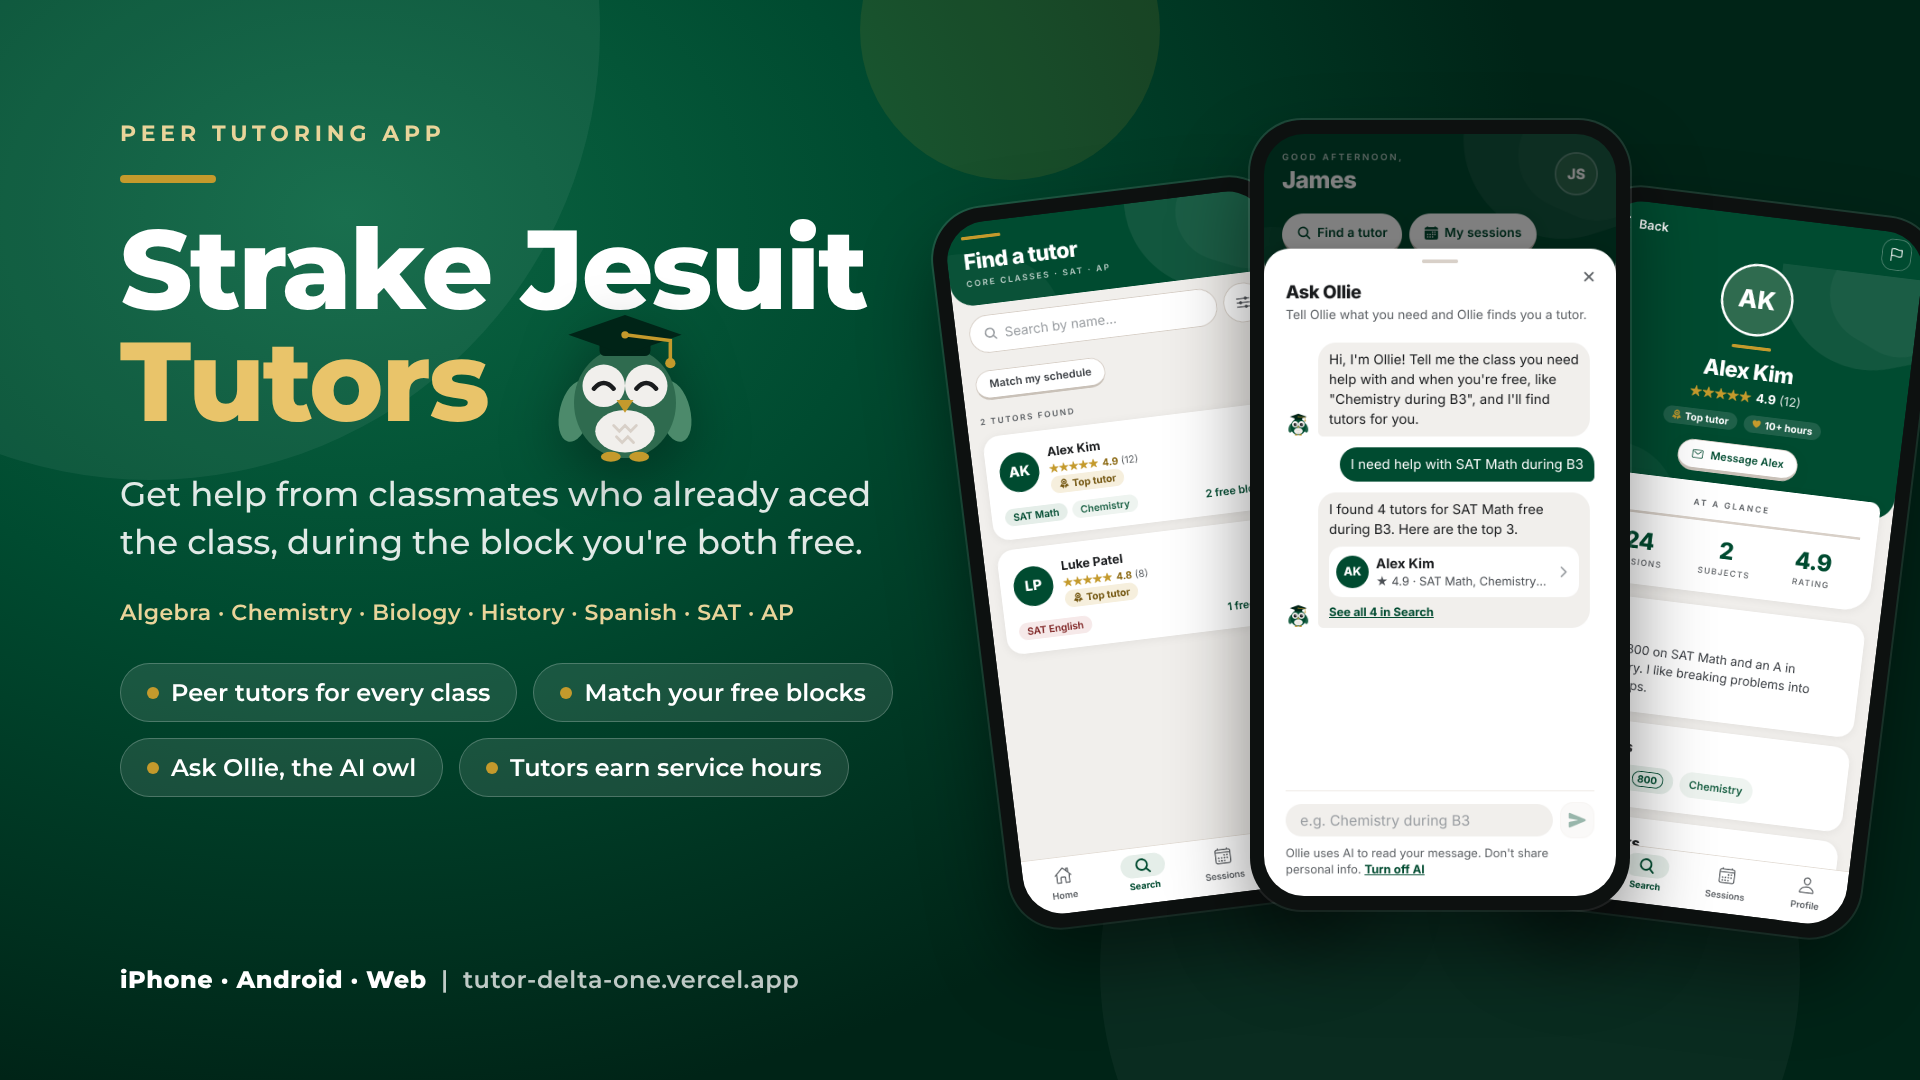
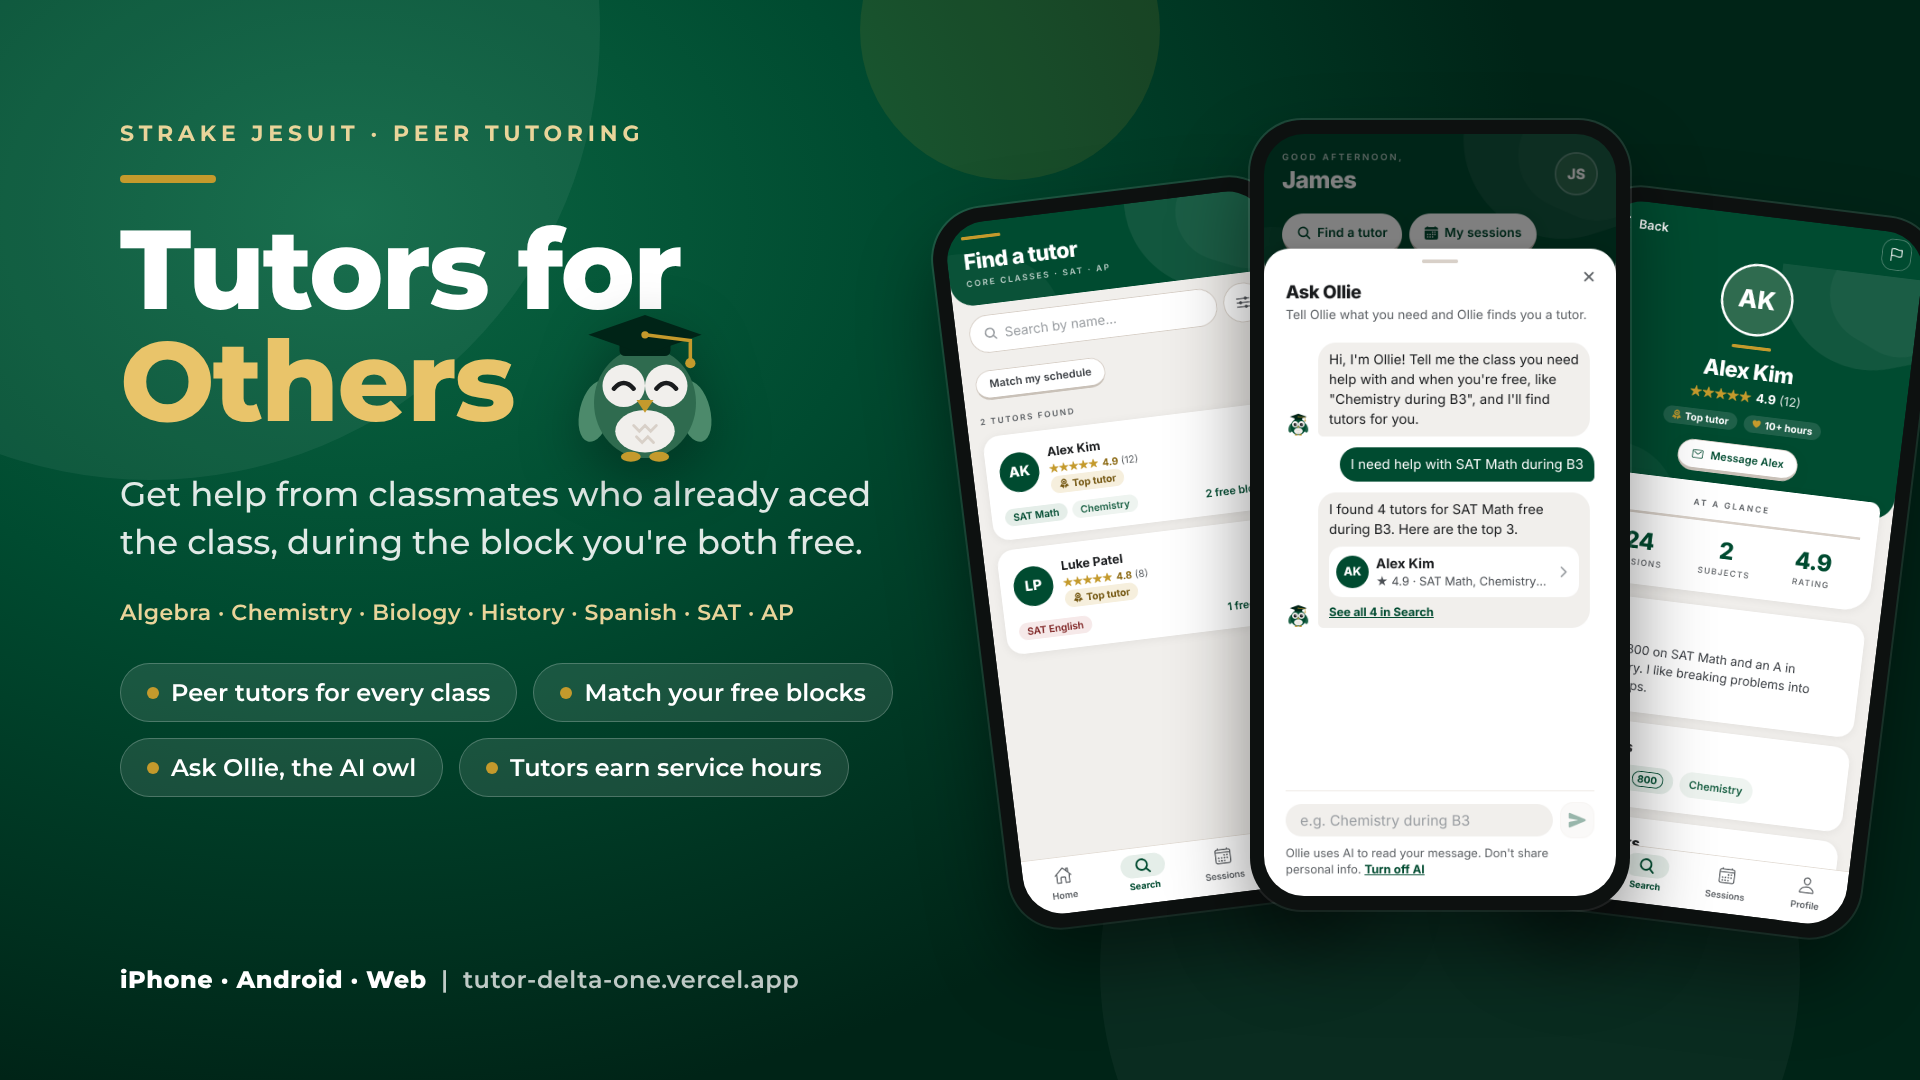
Rename the app to Tutors for Others
After the Jesuit motto "men and women for others". school.appName holds
the name; the header lockups now read TUTORS FOR OTHERS over Strake
Jesuit, and the splash, logo label, invites, calendar events, mailto
subject, app.json, page title, link previews, docs and tests use it.
011 puts the new name in session emails. The URL scheme and slug stay
the same so sign-in redirects keep working. The link-preview cover uses
the new name.

Claude-Session: https://claude.ai/code/session_018qTgza96PMfEWmJfVqPcx2

Changed region(s): [[0.0625, 0.1833, 0.4688, 0.4278], [0.0625, 0.0917, 0.25, 0.1528], [0.2812, 0.1222, 0.3125, 0.1528]]

diff --git a/public/index.html b/public/index.html
@@ -12,20 +12,20 @@
       name="viewport"
       content="width=device-width, initial-scale=1, shrink-to-fit=no, viewport-fit=cover"
     />
-    <title>Strake Jesuit Tutors</title>
+    <title>Tutors for Others</title>
     <meta name="theme-color" content="#004B30" />
     <meta name="description" content="Peer tutoring for Strake Jesuit students: find a classmate who already aced the class, during the block you're both free." />
 
     <!-- Link previews (iMessage, Instagram, Slack, X, etc.) -->
     <meta property="og:type" content="website" />
-    <meta property="og:site_name" content="Strake Jesuit Tutors" />
-    <meta property="og:title" content="Strake Jesuit Tutors" />
+    <meta property="og:site_name" content="Tutors for Others" />
+    <meta property="og:title" content="Tutors for Others" />
     <meta property="og:description" content="Find a classmate who already aced the class, during the block you're both free. Core classes, SAT and AP." />
     <meta property="og:url" content="https://tutor-delta-one.vercel.app/" />
     <meta property="og:image" content="https://tutor-delta-one.vercel.app/og-cover.png" />
     <meta property="og:image:width" content="1920" />
     <meta property="og:image:height" content="1080" />
-    <meta property="og:image:alt" content="Strake Jesuit Tutors: peer tutoring app with Ollie the owl" />
+    <meta property="og:image:alt" content="Tutors for Others: Strake Jesuit peer tutoring app with Ollie the owl" />
     <meta name="twitter:card" content="summary_large_image" />
     <meta name="twitter:image" content="https://tutor-delta-one.vercel.app/og-cover.png" />
 

diff --git a/src/utils/invite.js b/src/utils/invite.js
@@ -16,14 +16,14 @@ export function inviteLink() {
 
 export function inviteMessage(isTutor) {
   return isTutor
-    ? `I'm tutoring on ${school.name} Tutors. Book a free block with me or find another ${school.memberName} who can help: ${inviteLink()}`
-    : `I'm using ${school.name} Tutors to get help from other ${school.memberPlural}. Join me: ${inviteLink()}`;
+    ? `I'm tutoring on ${school.appName}. Book a free block with me or find another ${school.memberName} who can help: ${inviteLink()}`
+    : `I'm using ${school.appName} to get help from other ${school.memberPlural}. Join me: ${inviteLink()}`;
 }
 
 // For an empty search: ask someone who's good at a class to start tutoring.
 export function recruitMessage(subject) {
   const what = subject ? `good at ${subject}` : 'good at a class';
-  return `Are you ${what}? Tutor other ${school.memberPlural} on ${school.name} Tutors during your free blocks and earn service hours: ${inviteLink()}`;
+  return `Are you ${what}? Tutor other ${school.memberPlural} on ${school.appName} during your free blocks and earn service hours: ${inviteLink()}`;
 }
 
 /**
@@ -38,7 +38,7 @@ export async function shareInvite(isTutor, { kind = 'friend', subject } = {}) {
       return r.action === Share.dismissedAction ? 'cancelled' : 'shared';
     }
     if (navigator.share) {
-      await navigator.share({ title: `${school.name} Tutors`, text: message });
+      await navigator.share({ title: `${school.appName}`, text: message });
       return 'shared';
     }
     await navigator.clipboard.writeText(message);

diff --git a/src/screens/auth/SplashScreen.js b/src/screens/auth/SplashScreen.js
@@ -97,7 +97,7 @@ export default function SplashScreen() {
         style={styles.content}
         accessible
         accessibilityRole="progressbar"
-        accessibilityLabel={`${school.name} Tutors is loading`}
+        accessibilityLabel={`${school.appName} is loading`}
       >
         <Animated.View style={[styles.mark, heartStyle]}>
           <Animated.View style={[styles.layer, bookStyle]}>
@@ -113,7 +113,7 @@ export default function SplashScreen() {
 
         <Animated.View style={[styles.words, wordStyle]}>
           <Text style={styles.school}>{school.name.toUpperCase()}</Text>
-          <Text style={styles.title}>Tutors</Text>
+          <Text style={styles.title}>{school.appName}</Text>
           <View style={styles.rule} />
           <Text style={styles.sub}>{school.memberPlural} helping {school.memberPlural}</Text>
         </Animated.View>
@@ -143,7 +143,7 @@ const styles = StyleSheet.create({
 
   words:  { alignItems: 'center' },
   school: { ...label.caps, color: colors.whiteAlpha[80], fontSize: 12, letterSpacing: 3 },
-  title:  { ...heading.xl, color: colors.white, fontSize: 44, lineHeight: 52, marginTop: space.xs },
+  title:  { ...heading.xl, color: colors.white, fontSize: 38, lineHeight: 46, marginTop: space.xs, textAlign: 'center' },
   rule: {
     width: rule.width, height: rule.height, borderRadius: rule.radius,
     backgroundColor: colors.gold,

diff --git a/src/utils/calendar.js b/src/utils/calendar.js
@@ -56,7 +56,7 @@ async function addToNativeCalendar(session, otherName, startDate, endDate) {
     session.notes ?? null,
     `Subject: ${session.subject}`,
     blockName(session.period),
-    `${school.name} Tutor Marketplace`,
+    `${school.appName}`,
   ].filter(Boolean).join('\n');
 
   try {
@@ -107,7 +107,7 @@ function addToWebCalendar(session, otherName, startDate, endDate) {
     session.notes ?? null,
     `Subject: ${session.subject}`,
     blockName(session.period),
-    `${school.name} Tutor Marketplace`,
+    `${school.appName}`,
   ].filter(Boolean).join('\\n');
 
   const uid = `session-${session.id ?? Date.now()}@strakejesuit.tutors`;
@@ -116,7 +116,7 @@ function addToWebCalendar(session, otherName, startDate, endDate) {
   const ics = [
     'BEGIN:VCALENDAR',
     'VERSION:2.0',
-    'PRODID:-//Strake Jesuit Tutors//EN',
+    'PRODID:-//Tutors for Others//EN',
     'CALSCALE:GREGORIAN',
     'METHOD:PUBLISH',
     'BEGIN:VEVENT',

diff --git a/e2e/screens.e2e.js b/e2e/screens.e2e.js
@@ -592,7 +592,7 @@ async function type(page, label, text) { const el = page.locator(`[aria-label="$
     ok('Empty: Sessions invites a study friend', await seen(page, 'No upcoming sessions') && (await page.getByRole('button', { name: 'Invite a friend to study with' }).filter({ visible: true }).count()) === 1);
     await page.getByRole('button', { name: 'Invite a friend to study with' }).filter({ visible: true }).first().click(); await wait(page, 800);
     { const c = await clip();
-      ok('Empty: study invite is the normal invite message', c.includes('Strake Jesuit Tutors') && !c.includes('Are you good at'), c); }
+      ok('Empty: study invite is the normal invite message', c.includes('Tutors for Others') && !c.includes('Are you good at'), c); }
     await shot(page, 'empty-sessions.png');
     await ctx.close(); }
 

diff --git a/src/theme/school.js b/src/theme/school.js
@@ -5,7 +5,8 @@
 // ─────────────────────────────────────────────────────────────────────────────
 
 export const school = {
-  name:        'Strake Jesuit',   // full name, as shown in the header lockup
+  appName:     'Tutors for Others', // the app's name (after the Jesuit motto "men and women for others")
+  name:        'Strake Jesuit',   // the school's name, shown under the app name
   memberName:  'Crusader',        // what a student is called ("Welcome back, Crusader")
   memberPlural:'Crusaders',
   // Link people are sent when someone taps "Invite a friend": the production

diff --git a/src/__tests__/components.test.js b/src/__tests__/components.test.js
@@ -46,11 +46,11 @@ describe('Logo', () => {
 
   test('full logo is one labelled image', () => {
     const { getByLabelText } = render(<Logo size={48} />);
-    expect(getByLabelText('Strake Jesuit Tutors logo')).toBeTruthy();
+    expect(getByLabelText('Tutors for Others logo')).toBeTruthy();
   });
 
   test('animation layers are hidden from screen readers', () => {
     const { queryByLabelText } = render(<Logo size={48} layer="left" />);
-    expect(queryByLabelText('Strake Jesuit Tutors logo')).toBeNull();
+    expect(queryByLabelText('Tutors for Others logo')).toBeNull();
   });
 });

diff --git a/src/components/ui/AuthShell.js b/src/components/ui/AuthShell.js
@@ -38,8 +38,8 @@ export default function AuthShell({
       <View style={styles.lockup}>
         <Logo size={compact ? 40 : 48} onDark />
         <View>
-          <Text style={styles.school}>{school.name.toUpperCase()}</Text>
-          <Text style={styles.schoolSub}>Tutors</Text>
+          <Text style={styles.school}>{school.appName.toUpperCase()}</Text>
+          <Text style={styles.schoolSub}>{school.name}</Text>
         </View>
       </View>
       <View style={[styles.rule, compact && styles.ruleCompact]} />

diff --git a/src/components/ui/Logo.js b/src/components/ui/Logo.js
@@ -39,7 +39,7 @@ export default function Logo({ size = 64, onDark = false, layer = 'all', style }
       viewBox="0 0 120 120"
       style={style}
       accessibilityRole={layer === 'all' ? 'image' : undefined}
-      accessibilityLabel={layer === 'all' ? `${school.name} Tutors logo` : undefined}
+      accessibilityLabel={layer === 'all' ? `${school.appName} logo` : undefined}
       accessibilityElementsHidden={layer !== 'all'}
       importantForAccessibility={layer === 'all' ? 'yes' : 'no-hide-descendants'}
     >

diff --git a/src/screens/app/TutorProfileScreen.js b/src/screens/app/TutorProfileScreen.js
@@ -140,7 +140,7 @@ export default function TutorProfileScreen({ route, navigation }) {
                   size="sm"
                   variant="secondary"
                   onPress={() => Linking.openURL(
-                    `mailto:${tutor.email}?subject=${encodeURIComponent(`Peer tutoring (${school.name} Tutors)`)}`,
+                    `mailto:${tutor.email}?subject=${encodeURIComponent(`Peer tutoring (${school.appName})`)}`,
                   )}
                 />
               ) : null}

diff --git a/src/navigation/AppNavigator.js b/src/navigation/AppNavigator.js
@@ -87,8 +87,8 @@ function DesktopSidebar({ state, navigation }) {
       <View style={styles.brand}>
         <Logo size={40} onDark />
         <View>
-          <Text style={styles.brandLine1}>{school.name.toUpperCase()}</Text>
-          <Text style={styles.brandLine2}>Tutors</Text>
+          <Text style={styles.brandLine1}>{school.appName.toUpperCase()}</Text>
+          <Text style={styles.brandLine2}>{school.name}</Text>
         </View>
       </View>
 

diff --git a/docs/CONGRESSIONAL_APP_CHALLENGE.md b/docs/CONGRESSIONAL_APP_CHALLENGE.md
@@ -14,11 +14,11 @@ Each part of the kit below is aimed at one of these three.
 
 ## 1. App title
 
-**Strake Jesuit Tutors**: peer tutoring built around the block schedule.
+**Tutors for Others**: peer tutoring built around the block schedule.
 
 ## 2. Short description (for the form)
 
-> Strake Jesuit Tutors connects students who need help with classmates who have
+> Tutors for Others connects students who need help with classmates who have
 > already mastered the class, during the free blocks they share. Students
 > search by class or tap "Match my schedule", or just tell Ollie, our AI owl,
 > what they need ("chem during B3"). They book a real school day on Strake's
@@ -51,7 +51,7 @@ phone-sized browser window. Speak over it. Use **clear placeholder names**
 
 | Time | On screen | Say |
 |---|---|---|
-| 0:00–0:15 | Each team member on camera, or a title card | "Hi, we're **[names]** from **[school]**, and this is Strake Jesuit Tutors." |
+| 0:00–0:15 | Each team member on camera, or a title card | "Hi, we're **[names]** from **[school]**, and this is Tutors for Others." |
 | 0:15–0:35 | Login screen with Ollie the owl | "At our school, getting help means texting around to find someone who's free during your block. Students who want to tutor also need service hours but have no way to be found. We built one app for both." |
 | 0:35–0:50 | Sign up with a school email, then the welcome tour | "You can only sign up with a school email, and Ollie gives a quick three-step tour." |
 | 0:50–1:20 | Search: type a subject, tap **Match my schedule**; then tap the owl, type "chem during B3", open a tutor | "Search by class, from Algebra to AP Calc, or tap *Match my schedule*. Our search ranks tutors by rating and experience, and boosts anyone who shares your free blocks. Or just ask Ollie: AI turns your words into a search, but the matching happens in our own database, so no student's data goes to the AI." |
@@ -59,7 +59,7 @@ phone-sized browser window. Speak over it. Use **clear placeholder names**
 | 1:40–2:00 | Switch to the tutor account: the push notification, **Confirm**, then **Message** | "The tutor gets a notification, confirms, and they plan the session in the built-in chat, so no one shares a phone number." |
 | 2:00–2:15 | Tutor taps **Check-in code**, student types it, then Profile **Service hours** and the moderator's **Insights** tab | "At the session, the student types the tutor's code, so the hours are confirmed by both. A teacher verifies them, and Insights shows which classes students need help in but can't find a tutor for." |
 | 2:15–2:35 | Quick shots: the code, the tests passing, the accessibility scan | "We built it in React Native with Expo, so it runs on iPhone, Android and the web, with a Supabase backend. Security rules keep each student's sessions private. It has 44 unit tests, 149 automated screen checks, 112 database security tests, dark mode, and an accessibility scan with zero issues." |
-| 2:35–2:45 | Home screen | "In our first week of testing, **[N] students** signed up and booked **[N] sessions**. Strake Jesuit Tutors: Crusaders helping Crusaders. Thanks for watching!" |
+| 2:35–2:45 | Home screen | "In our first week of testing, **[N] students** signed up and booked **[N] sessions**. Tutors for Others: Crusaders helping Crusaders. Thanks for watching!" |
 
 Check before you upload:
 - [ ] Under 3 minutes.
@@ -77,7 +77,7 @@ Check before you upload:
 ## 7. Before you submit
 
 **Database and accounts**
-- [ ] All migrations are run: paste `supabase/all_migrations.sql` (001–010) into the Supabase SQL Editor and run it. Safe to run again.
+- [ ] All migrations are run: paste `supabase/all_migrations.sql` (001–011) into the Supabase SQL Editor and run it. Safe to run again.
 - [ ] The OpenAI key is in the Vault (README → *Ask Ollie*). Test by tapping the owl and asking "chem during B3".
 - [ ] The judge account is set up (`docs/TESTING.md` → *Judge access*), and its password is written **only** in the submission form.
 - [ ] Record the video with the demo data (`supabase/seed_demo.sql`, password in the README). **Then delete the demo accounts before submitting**, because their password is public:
